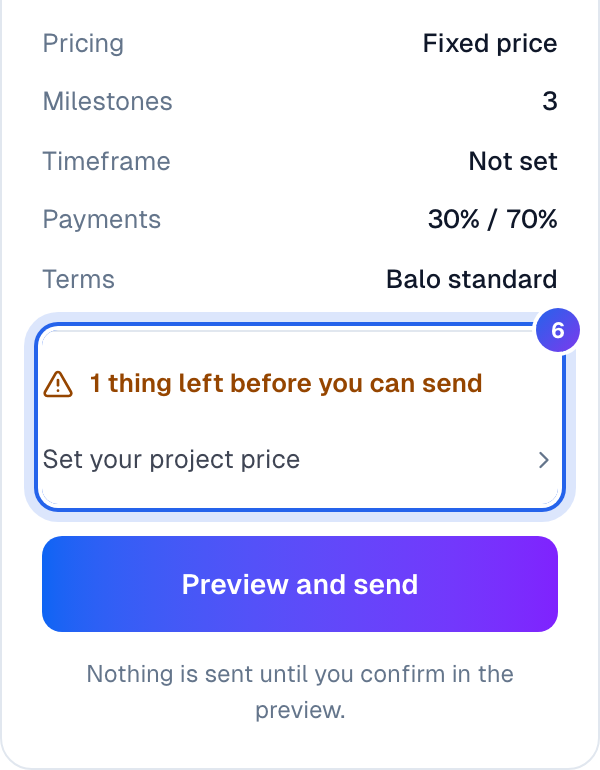
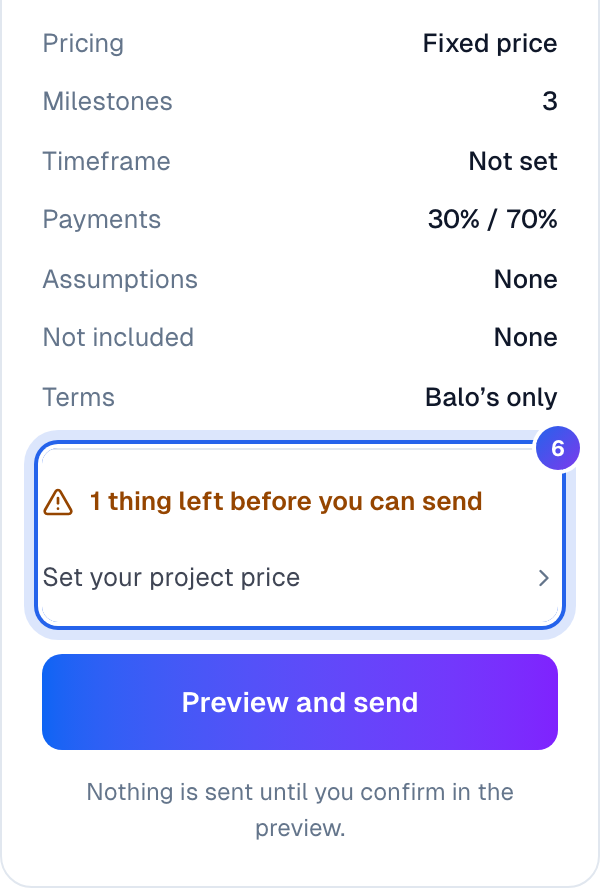
docs: retake proposal help screenshots and add the client review guide's (BAL-661)
- writing-and-sending-a-proposal: 01, 02, 06 and 08 re-shot (Terms chip
  gone; summary rail shows Assumptions, Not included and Terms). 06's alt
  text names the new rows. The propertyBar comment now says two chips.
- reviewing-a-proposal: new client-lens capture spec and four screenshots
  (the Assumptions and exclusions section, the change request hint, What
  you're agreeing to, and an attachment). The accept-dialog shot hides the
  price rows so no client price appears.
- Help fixture: the Quote approval workflow proposal now has two
  assumptions, two exclusions, two additional terms and one attachment.

Changed region(s): [[0.03, 0.0312, 0.99, 0.9662]]

diff --git a/e2e/help-screenshots/guides/reviewing-a-proposal.ts b/e2e/help-screenshots/guides/reviewing-a-proposal.ts
@@ -1,0 +1,167 @@
+import type { Locator, Page } from '@playwright/test';
+import { HELP_WORLD_IDS } from '../../../packages/db/src/help-seed/constants';
+import { defineGuide } from '../guide';
+import type { Box } from '../ring';
+
+const D = HELP_WORLD_IDS.dashboards;
+
+/**
+ * "Quote approval workflow": Priya's fixed-price proposal, sent and waiting on Dana. No other guide
+ * shows it, and every frame here keeps its client price out of view.
+ */
+const PROPOSAL_ROUTE = `/projects/${D.approval}/proposal/${D.approvalRelationship}`;
+/** The proposal fades in; wait for the entrance to finish. */
+const SETTLE_MS = 1500;
+/** Space kept around a hand-computed crop (the runner pads by 0 for those). */
+const GUTTER = 16;
+
+async function settle(page: Page): Promise<void> {
+  // The feedback launcher floats over the bottom-right corner of every page.
+  await page.addStyleTag({ content: '#__ybug-launcher { display: none !important; }' });
+  await docSection(page, 'overview').waitFor();
+  await page.waitForTimeout(SETTLE_MS);
+  // Park the pointer so no row carries a hover tint.
+  await page.mouse.move(0, 0);
+}
+
+/** Drops focus so the control just used shows no focus ring under the highlight. */
+async function blur(page: Page): Promise<void> {
+  await page.evaluate(() => {
+    const active = document.activeElement;
+    if (active instanceof HTMLElement) {
+      active.blur();
+    }
+  });
+}
+
+async function boxOf(locator: Locator): Promise<Box> {
+  const box = await locator.boundingBox();
+  if (!box) {
+    throw new Error(`reviewing-a-proposal: ${locator.toString()} has no box`);
+  }
+  return box;
+}
+
+/**
+ * Pads an element on every side with an equal negative margin, so nothing moves and the ring
+ * clears its contents instead of sitting on them.
+ */
+async function inset(locator: Locator, x: number, y: number): Promise<void> {
+  await locator.evaluate(
+    (el, [dx, dy]) => {
+      const style = getComputedStyle(el);
+      el.style.padding = `calc(${style.paddingTop} + ${dy}px) calc(${style.paddingRight} + ${dx}px) calc(${style.paddingBottom} + ${dy}px) calc(${style.paddingLeft} + ${dx}px)`;
+      el.style.margin = `calc(${style.marginTop} - ${dy}px) calc(${style.marginRight} - ${dx}px) calc(${style.marginBottom} - ${dy}px) calc(${style.marginLeft} - ${dx}px)`;
+    },
+    [x, y]
+  );
+}
+
+/**
+ * A proposal document section; its id is `sec-<proposalId>-<key>`. The page renders the document
+ * once per layout, so only the visible copy counts.
+ */
+const docSection = (page: Page, key: string): Locator =>
+  page.locator(`section[id="sec-${D.approvalProposal}-${key}"]:visible`);
+
+const dialog = (page: Page): Locator => page.getByRole('dialog');
+
+/** "What you're agreeing to" in the accept dialog, from its heading to the end of its block. */
+const agreeingTo = (page: Page): Locator =>
+  dialog(page).getByRole('heading', { name: 'What you’re agreeing to' }).locator('xpath=..');
+
+/** The acknowledgement checkbox's row. */
+const acknowledgement = (page: Page): Locator =>
+  dialog(page).locator('label').filter({ hasText: 'I agree to' });
+
+defineGuide('reviewing-a-proposal', [
+  {
+    section: 1,
+    as: 'client',
+    state: 'dashboards',
+    route: PROPOSAL_ROUTE,
+    setup: async (page) => {
+      await settle(page);
+      await docSection(page, 'scope').scrollIntoViewIfNeeded();
+      // A side inset keeps the ring off the text; none vertically, or the ring's reach takes in
+      // the sections above and below.
+      await inset(docSection(page, 'scope'), 12, 0);
+    },
+    target: (page) => docSection(page, 'scope'),
+    radius: 12,
+    cropPadding: GUTTER,
+  },
+  {
+    section: 2,
+    as: 'client',
+    state: 'dashboards',
+    route: PROPOSAL_ROUTE,
+    setup: async (page) => {
+      await settle(page);
+      await page.getByRole('button', { name: 'Request changes' }).click();
+      await page.getByRole('combobox', { name: 'What needs work?' }).click();
+      await page.getByRole('option', { name: 'Assumptions and exclusions' }).click();
+      await page
+        .getByLabel('Your note')
+        .fill('Exclusion 2: could contract approvals be included as well?');
+      await blur(page);
+      await inset(page.locator('#changes-section-hint'), 6, 2);
+      await page.waitForTimeout(300);
+    },
+    target: (page) => page.locator('#changes-section-hint'),
+    radius: 8,
+    crop: dialog,
+    cropPadding: 0,
+  },
+  {
+    section: 3,
+    as: 'client',
+    state: 'dashboards',
+    route: PROPOSAL_ROUTE,
+    setup: async (page) => {
+      await settle(page);
+      await page.getByRole('button', { name: 'Accept this proposal' }).click();
+      await agreeingTo(page).waitFor();
+      // The dialog body scrolls; bring the block and the checkbox below it into view.
+      await acknowledgement(page).scrollIntoViewIfNeeded();
+      // The price rows sit just above the block. A client price must never appear in a help
+      // shot, so hide them; visibility keeps the layout, so nothing moves.
+      await dialog(page)
+        .locator('dl')
+        .first()
+        .evaluate((el) => {
+          el.style.visibility = 'hidden';
+        });
+      await inset(agreeingTo(page), 4, 8);
+      await page.waitForTimeout(300);
+    },
+    target: agreeingTo,
+    radius: 12,
+    // From "What you're agreeing to" down to the acknowledgement, across the dialog's width.
+    cropArea: async (page) => {
+      const block = await boxOf(agreeingTo(page));
+      const ack = await boxOf(acknowledgement(page));
+      const box = await boxOf(dialog(page));
+      return {
+        x: box.x,
+        y: block.y - GUTTER,
+        width: box.width,
+        height: ack.y + ack.height - block.y + GUTTER * 2,
+      };
+    },
+    cropPadding: 0,
+  },
+  {
+    section: 4,
+    as: 'client',
+    state: 'dashboards',
+    route: PROPOSAL_ROUTE,
+    setup: async (page) => {
+      await settle(page);
+      await docSection(page, 'attachments').scrollIntoViewIfNeeded();
+    },
+    target: (page) => page.getByRole('button', { name: 'Download Approval matrix.pdf' }),
+    crop: (page) => docSection(page, 'attachments'),
+    cropPadding: GUTTER,
+  },
+]);

diff --git a/packages/db/src/help-seed/world.ts b/packages/db/src/help-seed/world.ts
@@ -29,6 +29,8 @@ import {
   projectRequestTags,
   projectTags,
   proposalChangeRequests,
+  proposalClauses,
+  proposalDocuments,
   proposalDraftGenerations,
   proposalMilestones,
   proposalPaymentInstallments,
@@ -2108,6 +2110,62 @@ async function insertClientRequests(db: HelpExecutor, ctx: HelpWorldContext): Pr
       pct: 50,
     },
   ]);
+  // The lists and attachment the client reads before accepting (reviewing-a-proposal). No
+  // figures: a list item is shown to the client exactly as the expert typed it.
+  await db.insert(proposalClauses).values([
+    {
+      id: DB_.approvalAssumption1,
+      proposalId: DB_.approvalProposal,
+      kind: 'assumption',
+      sortOrder: 0,
+      body: 'Your sales leads can join two workshops in the first two weeks.',
+    },
+    {
+      id: DB_.approvalAssumption2,
+      proposalId: DB_.approvalProposal,
+      kind: 'assumption',
+      sortOrder: 1,
+      body: 'The discount bands stay the same while the approval flow is built.',
+    },
+    {
+      id: DB_.approvalExclusion1,
+      proposalId: DB_.approvalProposal,
+      kind: 'exclusion',
+      sortOrder: 0,
+      body: 'Changes to CPQ pricing rules or price books.',
+    },
+    {
+      id: DB_.approvalExclusion2,
+      proposalId: DB_.approvalProposal,
+      kind: 'exclusion',
+      sortOrder: 1,
+      body: 'Approvals for contracts and orders. This covers quotes only.',
+    },
+    {
+      id: DB_.approvalTerm1,
+      proposalId: DB_.approvalProposal,
+      kind: 'additional_term',
+      sortOrder: 0,
+      body: 'Training is delivered remotely, in up to two sessions.',
+    },
+    {
+      id: DB_.approvalTerm2,
+      proposalId: DB_.approvalProposal,
+      kind: 'additional_term',
+      sortOrder: 1,
+      body: 'Your team signs off each milestone within five working days of its delivery.',
+    },
+  ]);
+  await db.insert(proposalDocuments).values({
+    id: DB_.approvalDocument,
+    proposalId: DB_.approvalProposal,
+    uploadedByUserId: ctx.priyaId,
+    kind: 'ref',
+    r2Key: `help-fixture/proposals/${DB_.approvalProposal}/approval-matrix.pdf`,
+    fileName: 'Approval matrix.pdf',
+    contentType: 'application/pdf',
+    sizeBytes: 184_320,
+  });
 }
 
 /**

diff --git a/e2e/help-screenshots/guides/writing-and-sending-a-proposal.ts b/e2e/help-screenshots/guides/writing-and-sending-a-proposal.ts
@@ -39,7 +39,7 @@ async function boxOf(locator: Locator): Promise<Box> {
 
 const section = (page: Page, name: string): Locator => page.getByRole('region', { name });
 
-/** The row of three property chips (Pricing method, Timeframe, Terms). */
+/** The row of two property chips (Pricing method, Timeframe). */
 const propertyBar = (page: Page): Locator =>
   page.getByRole('button', { name: /^(Fixed price|Time & materials)/ }).locator('xpath=..');
 

diff --git a/packages/db/src/help-seed/constants.ts b/packages/db/src/help-seed/constants.ts
@@ -237,6 +237,13 @@ export const HELP_WORLD_IDS = {
     'approvalInstallment1',
     'approvalInstallment2',
     'waitingOnBalo',
+    'approvalAssumption1',
+    'approvalAssumption2',
+    'approvalExclusion1',
+    'approvalExclusion2',
+    'approvalTerm1',
+    'approvalTerm2',
+    'approvalDocument',
   ]),
   agency: helpIdBlock(0x1501, [
     'routingRequest',

diff --git a/docs/help/reviewing-a-proposal.md b/docs/help/reviewing-a-proposal.md
@@ -27,6 +27,8 @@ attachments.
   additional terms as a numbered list, when they've added any.
 - **Attachments** — reference documents the expert included.
 
+![The Assumptions and exclusions section of a proposal, with numbered Assumptions and Not included lists, highlighted.](01)
+
 ## Requesting changes
 
 If something needs work, choose **Request changes**, pick what needs work and say what you'd like
@@ -37,6 +39,8 @@ The choices are **General**, **Milestones / deliverables**, **Assumptions and ex
 **Pricing**, **Payment terms**, **Timeline** and **Terms**. For assumptions, exclusions and terms,
 name the item by its number, for example "Assumption 2" or "Term 1", so your expert knows exactly
 which one you mean.
+
+![The Request changes dialog with Assumptions and exclusions chosen and a note about Exclusion 2, with the hint to name the item by its number highlighted.](02)
 
 ## What accepting commits you to
 
@@ -49,7 +53,11 @@ You then tick the box to confirm you agree. Accepting commits your company to th
 your project has any agreed lists, they appear on the project page under **Agreed in the
 proposal** once the project kicks off.
 
+![The accept dialog, with What you're agreeing to highlighted: Balo's Project T&Cs with the fixed-price rule, Priya Raman's two additional terms and the count of assumptions and exclusions, above the box to confirm.](03)
+
 ## Opening attachments
 
 Choose an attachment on the proposal page to open the file. Attachments are only available once
 the expert has sent the proposal.
+
+![The Attachments section of a proposal, with the Approval matrix PDF highlighted.](04)

diff --git a/docs/help/writing-and-sending-a-proposal.md b/docs/help/writing-and-sending-a-proposal.md
@@ -119,7 +119,7 @@ You can also press **Cmd+Enter** (Mac) or **Ctrl+Enter** to preview.
 The preview shows the proposal the way the client will read it. Nothing is sent until you choose
 **Send** there, or **Back to editing** to keep working.
 
-![The proposal summary beside the page, with the checklist showing the project price still to set highlighted above Preview and send.](06)
+![The proposal summary beside the page, with its Assumptions, Not included and Terms rows, and the checklist showing the project price still to set highlighted above Preview and send.](06)
 
 ## What the client sees
 
